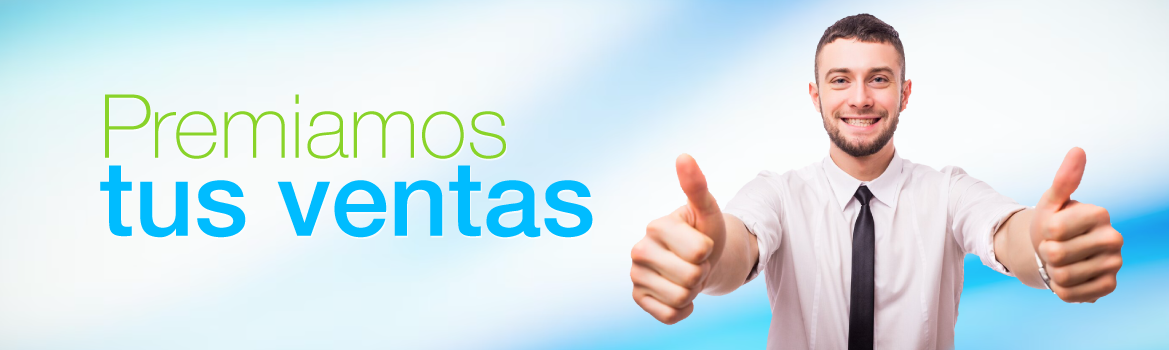
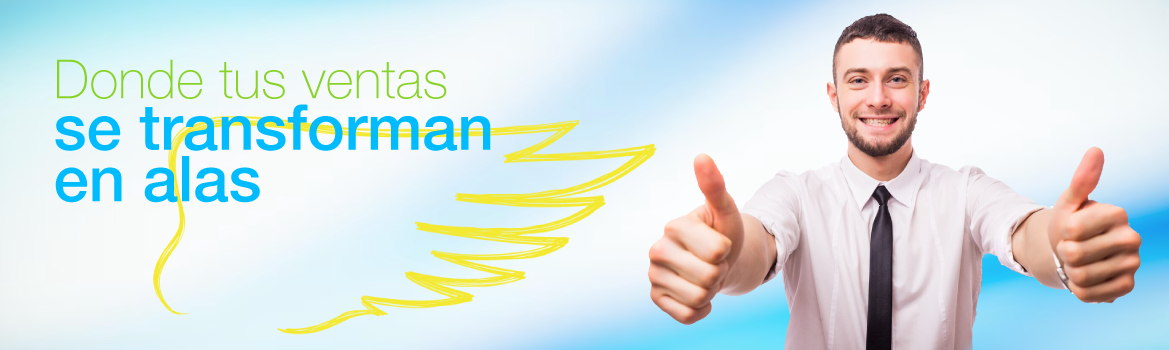
ajustes finales

Changed region(s): [[0.0308, 0.0286, 0.9855, 1.0]]

diff --git a/index.html b/index.html
@@ -122,10 +122,10 @@
                                 <a href="meta.html">Mi meta</a>
                             </li>
                             <li class="">
-                                <a href="productos.html">Productos</a>
+                                <a href="productos.html">Premios</a>
                             </li>
                             <li class="">
-                                <a href="puntos.html">Mis alas</a>
+                                <a href="puntos.html">Mis alas acumuladas</a>
                             </li>
                             <li class="">
                                 <a href="factura.html">Cargar factura</a>
@@ -154,7 +154,7 @@
         <div class="row text-center margin-top-50">
             <div class="col-md-12 ">
                 <h4 class="fnt-600">@Nombre, bienvenido a Aliados Bayer</h4>
-                <p>Premiamos tu fidelidad con increibles premios.</p>
+                <p> Transformamos tus ventas en increíbles premioso</p>
             </div>
             <!--
             <div class="col-md-12">
@@ -164,7 +164,9 @@
 -->
 
             <div class="col-md-2 col-md-offset-5  margin-bottom-50">
-                <a href="funciona.html" class="button" style="width: 100%">Cónoce más</a>
+                <a href="funciona.html" class="button" style="width: 100%">Descubre</a>
+                <br><br>
+                <a href="meta.html" class="button" style="width: 100%">Mi meta</a>
             </div>
         </div>
     </div>

diff --git a/puntos.html b/puntos.html
@@ -128,10 +128,10 @@
                                 <a href="meta.html">Mi meta</a>
                             </li>
                             <li class="">
-                                <a href="productos.html">Productos</a>
+                                <a href="productos.html">Premios</a>
                             </li>
                             <li class="active">
-                                <a href="puntos.html">Mis alas</a>
+                                <a href="puntos.html">Mis alas acumuladas</a>
                             </li>
                             <li class="">
                                 <a href="factura.html">Cargar factura</a>
@@ -147,7 +147,7 @@
     </header>
     <div class="container margin-bottom-50">
         <div class="section-title style6 text-center margin-top-20">
-            <h3>Mis alas</h3>
+            <h3>Mis alas acumuladas</h3>
             <span class="sub-title"></span>
         </div>
 

diff --git a/categoria.html b/categoria.html
@@ -124,10 +124,10 @@
                                 <a href="meta.html">Mi meta</a>
                             </li>
                             <li class="">
-                                <a href="productos.html">Productos</a>
+                                <a href="productos.html">Premios</a>
                             </li>
                             <li class="">
-                                <a href="puntos.html">Mis alas</a>
+                                <a href="puntos.html">Mis alas acumuladas</a>
                             </li>
                             <li class="active">
                                 <a href="factura.html">Cargar factura</a>

diff --git a/categoria2.html b/categoria2.html
@@ -125,10 +125,10 @@
                                 <a href="meta.html">Mi meta</a>
                             </li>
                             <li class="">
-                                <a href="productos.html">Productos</a>
+                                <a href="productos.html">Premios</a>
                             </li>
                             <li class="">
-                                <a href="puntos.html">Mis alas</a>
+                                <a href="puntos.html">Mis alas acumuladas</a>
                             </li>
                             <li class="active">
                                 <a href="factura.html">Cargar factura</a>

diff --git a/cotiza.html b/cotiza.html
@@ -123,10 +123,10 @@
                                 <a href="meta.html">Mi meta</a>
                             </li>
                             <li class="">
-                                <a href="productos.html">Productos</a>
+                                <a href="productos.html">Premios</a>
                             </li>
                             <li class="">
-                                <a href="puntos.html">Mis alas</a>
+                                <a href="puntos.html">Mis alas acumuladas</a>
                             </li>
                             <li class="active">
                                 <a href="factura.html">Cargar factura</a>

diff --git a/productos.html b/productos.html
@@ -129,10 +129,10 @@
                                 <a href="meta.html">Mi meta</a>
                             </li>
                             <li class="active">
-                                <a href="productos.html">Productos</a>
+                                <a href="productos.html">Premios</a>
                             </li>
                             <li class="">
-                                <a href="puntos.html">Mis alas</a>
+                                <a href="puntos.html">Mis alas acumuladas</a>
                             </li>
                             <li class="">
                                 <a href="factura.html">Cargar factura</a>

diff --git a/bene-generado.html b/bene-generado.html
@@ -119,10 +119,10 @@
                                 <a href="meta.html">Mi meta</a>
                             </li>
                             <li class="">
-                                <a href="productos.html">Productos</a>
+                                <a href="productos.html">Premios</a>
                             </li>
                             <li class="">
-                                <a href="puntos.html">Mis alas</a>
+                                <a href="puntos.html">Mis alas acumuladas</a>
                             </li>
                             <li class="">
                                 <a href="factura.html">Cargar factura</a>

diff --git a/bene-unico.html b/bene-unico.html
@@ -119,10 +119,10 @@
                                 <a href="meta.html">Mi meta</a>
                             </li>
                             <li class="">
-                                <a href="productos.html">Productos</a>
+                                <a href="productos.html">Premios</a>
                             </li>
                             <li class="">
-                                <a href="puntos.html">Mis alas</a>
+                                <a href="puntos.html">Mis alas acumuladas</a>
                             </li>
                             <li class="">
                                 <a href="factura.html">Cargar factura</a>

diff --git a/beneficios.html b/beneficios.html
@@ -130,10 +130,10 @@
                                 <a href="meta.html">Mi meta</a>
                             </li>
                             <li class="">
-                                <a href="productos.html">Productos</a>
+                                <a href="productos.html">Premios</a>
                             </li>
                             <li class="">
-                                <a href="puntos.html">Mis alas</a>
+                                <a href="puntos.html">Mis alas acumuladas</a>
                             </li>
                             <li class="">
                                 <a href="factura.html">Cargar factura</a>

diff --git a/beneficios2.html b/beneficios2.html
@@ -130,10 +130,10 @@
                                 <a href="meta.html">Mi meta</a>
                             </li>
                             <li class="">
-                                <a href="productos.html">Productos</a>
+                                <a href="productos.html">Premios</a>
                             </li>
                             <li class="">
-                                <a href="puntos.html">Mis alas</a>
+                                <a href="puntos.html">Mis alas acumuladas</a>
                             </li>
                             <li class="">
                                 <a href="factura.html">Cargar factura</a>

diff --git a/carrito.html b/carrito.html
@@ -116,10 +116,10 @@
                                 <a href="meta.html">Mi meta</a>
                             </li>
                             <li class="">
-                                <a href="productos.html">Productos</a>
+                                <a href="productos.html">Premios</a>
                             </li>
                             <li class="">
-                                <a href="puntos.html">Mis alas</a>
+                                <a href="puntos.html">Mis alas acumuladas</a>
                             </li>
                             <li class="">
                                 <a href="factura.html">Cargar factura</a>

diff --git a/checkout-ok.html b/checkout-ok.html
@@ -120,10 +120,10 @@
                                 <a href="meta.html">Mi meta</a>
                             </li>
                             <li class="">
-                                <a href="productos.html">Productos</a>
+                                <a href="productos.html">Premios</a>
                             </li>
                             <li class="">
-                                <a href="puntos.html">Mis alas</a>
+                                <a href="puntos.html">Mis alas acumuladas</a>
                             </li>
                             <li class="">
                                 <a href="factura.html">Cargar factura</a>
